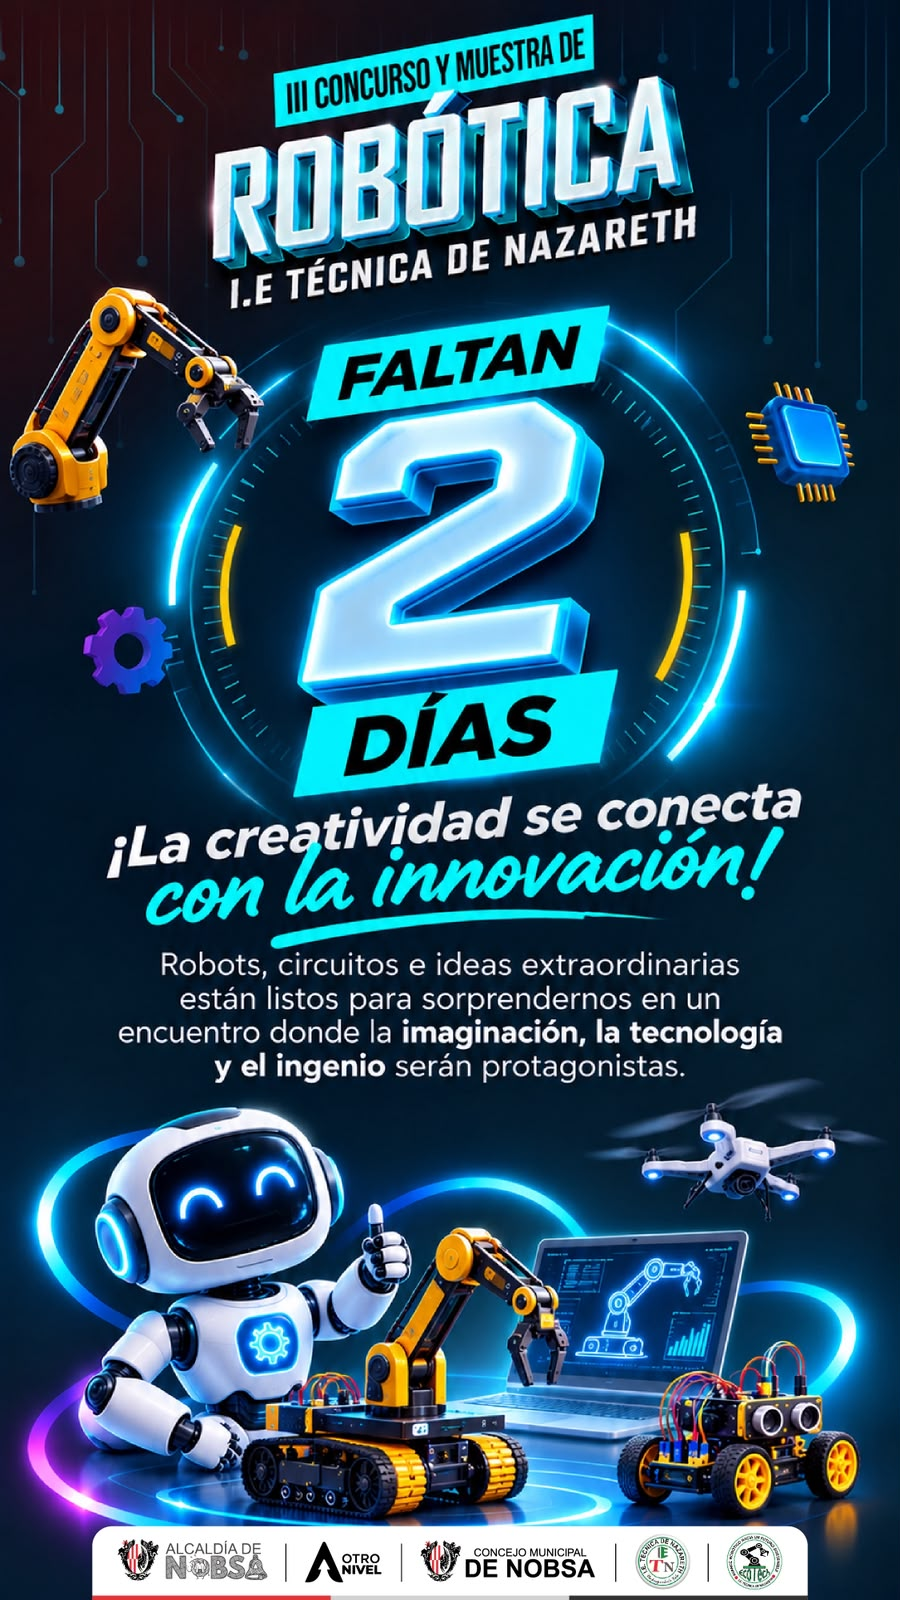
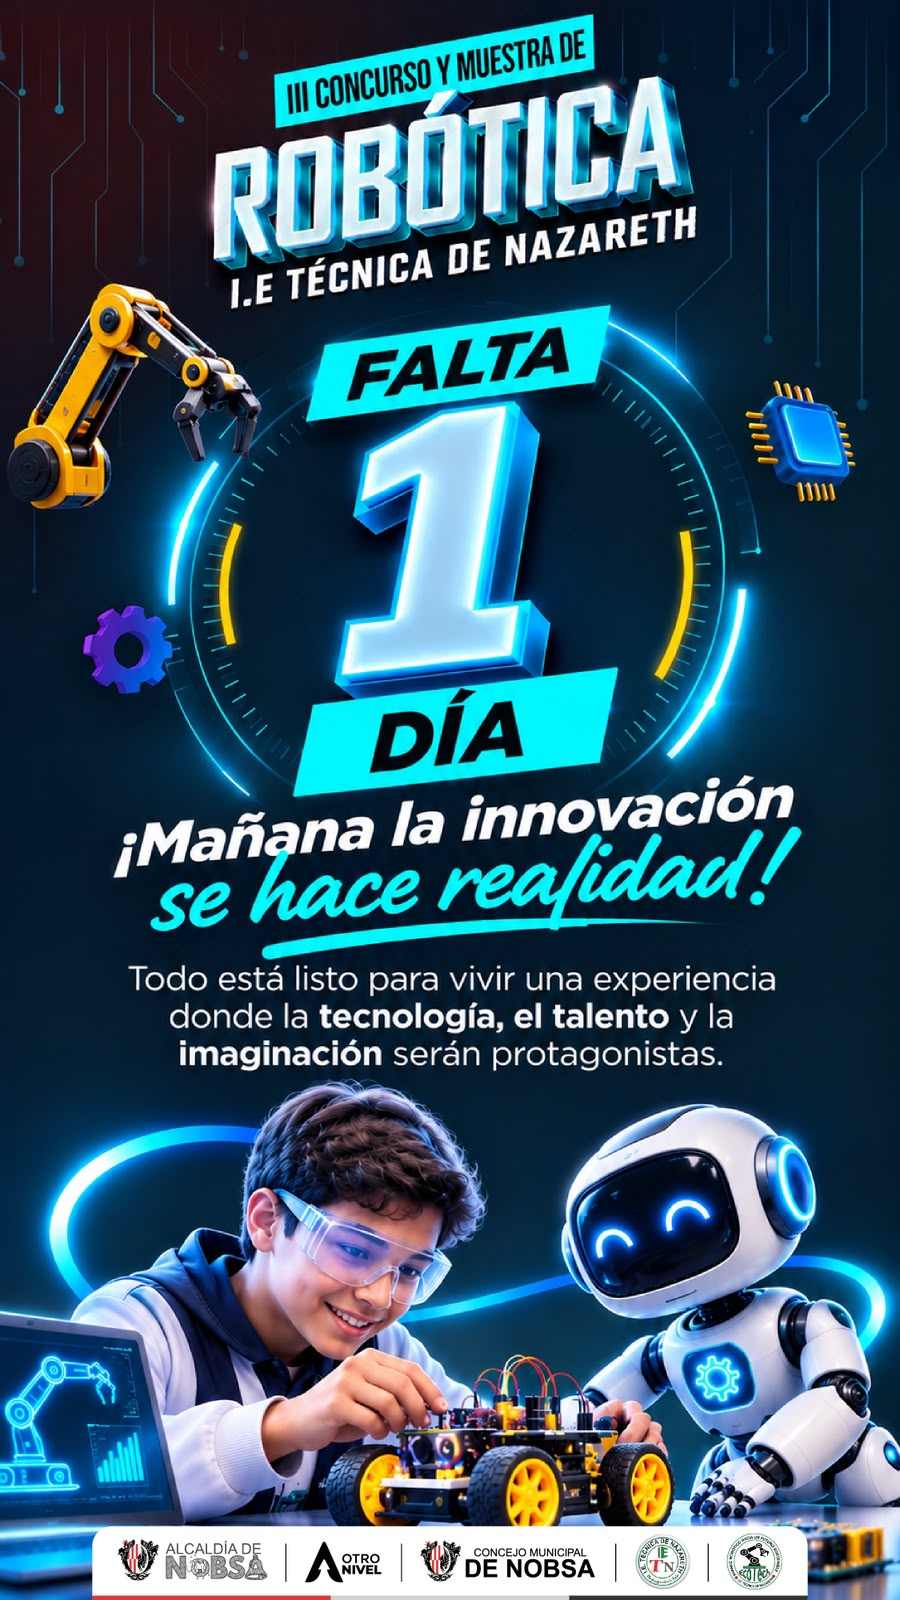
Cambio: Imagen y mensaje de 1 dia

diff --git a/src/server/announcement-email.ts b/src/server/announcement-email.ts
@@ -62,8 +62,8 @@ function createAnnouncementMessage(): AnnouncementMessage {
     `Ubicación del evento: ${eventLocation}`
   ].join('\n');
   const html = `<div style="font-family:Arial,sans-serif;color:#17212b;max-width:680px;margin:0 auto">
-    <img src="${imageUrl}" alt="Faltan 2 días para la Feria de Robótica Nobsa" style="display:block;width:100%;max-width:680px;height:auto;margin:0 auto 24px">
-    <h1 style="color:#087e8b">¡Faltan solo dos días!</h1>
+    <img src="${imageUrl}" alt="Falta solo un día para la Feria de Robótica Nobsa" style="display:block;width:100%;max-width:680px;height:auto;margin:0 auto 24px">
+    <h1 style="color:#087e8b">¡Falta solo un día!</h1>
     <p>Estamos muy contentos de recibirlos en nuestra Feria de Robótica.</p>
     <p>Para descargar las escarapelas solo necesitan el código DANE o NIT de la institución educativa.</p>
     <p><a href="${badgePage}" style="display:inline-block;background:#087e8b;color:#fff;padding:12px 20px;text-decoration:none;font-weight:bold">DESCARGAR ESCARAPELAS</a></p>
